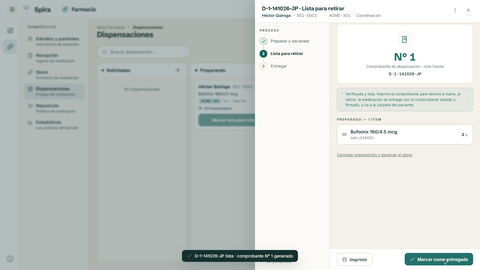
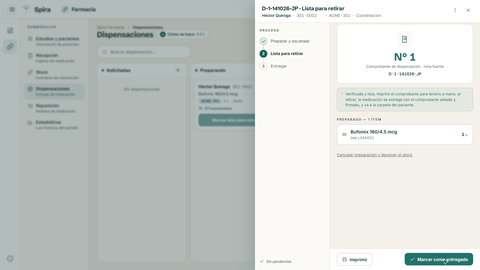
feat(tutoriales): T7 — `tutoriales:verificar` avisa cuando un tutorial quedó viejo
`npm run tutoriales:verificar` resetea el demo y recorre cada guion SIN voz ni video, y falla de dos maneras:
- un control que ya no existe: «Tutorial «dispensar», paso 3 («Tocá «Preparar»…»): … Locator: getByRole(…)»;
- la pantalla cambió: compara cada paso con su captura de referencia (`tutoriales/capturas/<id>/NN.png`) y deja
  la imagen de la diferencia. Tolerancia 0,5 %, medida: una corrida limpia difiere en 30-55 píxeles de 129.600,
  dos columnas cambiadas de lugar en ~2.350.

Probado con cambios temporales en la app (no commiteados): «Preparar» renombrado falla en el paso 3; Solicitadas y
Entregadas cambiadas de lugar fallan en los pasos 1 y 2. Corridas limpias: pasan.

- El reset del demo pasó a la fábrica: `grabar` y `verificar` lo corren antes de cada tutorial.
- Las capturas de referencia las deja `grabar.pw.ts` al terminar, por el camino de `verificar` (no durante la
  toma: el estilo que esconde los avisos se aplicaría a la página filmada).
- Los avisos flotantes (`data-toast`) se esconden en las capturas: aparecían según el milisegundo.
- El cierre de jornada suma el paso «¿cambió alguna pantalla con tutorial?».

Changed region(s): [[0.375, 0.9185, 0.625, 0.9778], [0.3125, 0.1185, 0.4062, 0.1481]]

diff --git a/tutoriales/lib/grabar.ts b/tutoriales/lib/grabar.ts
@@ -4,12 +4,12 @@ import { dirname, join, resolve } from 'node:path'
 import { fileURLToPath } from 'node:url'
 import type { Browser } from '@playwright/test'
 import { SCRIPT_CURSOR } from './cursor'
-import { verificarAppDelDemo } from './demo'
+import { resetearDemo, verificarAppDelDemo } from './demo'
 import { Escena } from './guion'
 import type { Guion } from './guion'
 import { armarCapitulos, armarTramos, esperaRestante } from './lineaDeTiempo'
 import type { PasoMedido } from './lineaDeTiempo'
-import { achicar, duracionDelVideo, extraerPoster, mezclar } from './mezcla'
+import { duracionDelVideo, extraerPoster, mezclar } from './mezcla'
 import { armarVtt } from './vtt'
 import { entrarComo } from './sesion'
 import { audioDe, elegirVoz } from './voz'
@@ -22,7 +22,7 @@ import { audioDe, elegirVoz } from './voz'
      3. mezcla  → ffmpeg pone cada audio en el instante en que arrancó su paso → mp4 H.264 + AAC
      4. salida  → tutoriales/salida/<id>/<versión>/ {video.mp4, subtitulos.vtt, poster.jpg}
                   + src/ayuda/tutoriales.meta.json (versión, duración, capítulos, transcripción)
-                  + tutoriales/capturas/<id>/NN.png (referencia chica de cada paso, para `tutoriales:verificar`)
+                  + tutoriales/capturas/<id>/NN.png (referencia chica de cada paso: la deja `grabar.pw.ts` después, por el camino de `verificar`)
 
    La versión es un hash corto del mp4: va en la ruta de Storage, así un video regrabado nunca choca con la
    caché del anterior. Un guion `prueba` (la prueba de la fábrica) sólo deja la carpeta de salida.
@@ -57,6 +57,7 @@ export async function grabarGuion(browser: Browser, g: Guion, opciones: { baseUR
   if (!g.prueba) {
     if (!opciones.baseURL) throw new Error(`«${g.id}» es un tutorial: se graba contra la app del demo (falta baseURL).`)
     await verificarAppDelDemo(opciones.baseURL)
+    resetearDemo()
   }
   const ctx = await browser.newContext({
     viewport: { width: ANCHO, height: ALTO },
@@ -71,16 +72,14 @@ export async function grabarGuion(browser: Browser, g: Guion, opciones: { baseUR
   if (g.preparar) await g.preparar(escena)
 
   const medidos: PasoMedido[] = []
-  const capturas: string[] = []
   for (const [i, paso] of g.pasos.entries()) {
     const inicioMs = Date.now() - t0
     const antes = Date.now()
     if (paso.hace) await paso.hace(escena)
-    // La captura de referencia también tarda: se cuenta como parte de la acción, para que la espera que
-    // sigue sea exactamente lo que le falta al audio (si no, la voz del paso se pisa con la del siguiente).
-    const captura = join(trabajo, `paso-${String(i + 1).padStart(2, '0')}.png`)
-    await page.screenshot({ path: captura })
-    capturas.push(captura)
+    // Una foto de cada paso en `.trabajo/` (para mirar qué pasó si la toma falla; la de referencia de
+    // `verificar` sale aparte). Tarda, y se cuenta como parte de la acción, para que la espera que sigue sea
+    // exactamente lo que le falta al audio (si no, la voz del paso se pisa con la del siguiente).
+    await page.screenshot({ path: join(trabajo, `paso-${String(i + 1).padStart(2, '0')}.png`) })
     const accionMs = Date.now() - antes
     const audioMs = audios[i]?.duracionMs ?? 0
     await page.waitForTimeout(esperaRestante(audioMs, accionMs))
@@ -109,11 +108,10 @@ export async function grabarGuion(browser: Browser, g: Guion, opciones: { baseUR
      reproductor (QA de T5: decía «0:15» y el video duraba 0:17). */
   const duracionMs = duracionDelVideo(join(carpeta, 'video.mp4'))
 
+  /* Las capturas de referencia de `tutoriales:verificar` NO salen de esta toma: las deja `grabar.pw.ts` al
+     terminar, pasando el guion por el mismo camino que después las compara (`lib/verificar.ts`). Sacarlas acá,
+     con el estilo que esconde los avisos, lo aplicaría a la página que se está filmando. */
   if (!g.prueba) {
-    const dirCapturas = join(FABRICA, 'capturas', g.id)
-    rmSync(dirCapturas, { recursive: true, force: true })
-    mkdirSync(dirCapturas, { recursive: true })
-    capturas.forEach((c, i) => achicar(c, 480, join(dirCapturas, `${String(i + 1).padStart(2, '0')}.png`)))
     escribirMeta(g.id, {
       version,
       duracionMs: Math.round(duracionMs),

diff --git a/tutoriales/lib/verificar.ts b/tutoriales/lib/verificar.ts
@@ -1,0 +1,74 @@
+import { mkdirSync, readFileSync, rmSync } from 'node:fs'
+import { dirname, join, resolve } from 'node:path'
+import { fileURLToPath } from 'node:url'
+import type { Browser } from '@playwright/test'
+import { SCRIPT_CURSOR } from './cursor'
+import { resetearDemo, verificarAppDelDemo } from './demo'
+import { ALTO, ANCHO } from './grabar'
+import { Escena } from './guion'
+import type { Guion } from './guion'
+import { capturaDeReferencia } from './captura'
+import { entrarComo } from './sesion'
+
+/* ============================================================================
+   ¿El tutorial sigue describiendo la app de hoy? (T7, docs/plan-tutoriales.md, «Desactualización»).
+
+   Corre el guion entero SIN voz ni video, contra el demo recién reseteado, y avisa de dos maneras:
+     1. El control ya no existe: el paso falla nombrando el tutorial, el número de paso y lo que dice la voz ahí.
+     2. La pantalla cambió: después de cada paso se saca la captura chica (480 px, como al grabar) y se compara
+        con la de la última grabación (`tutoriales/capturas/<id>/NN.png`). Una columna nueva o un copy distinto
+        marcan el video como viejo aunque los botones se sigan llamando igual.
+
+   La captura pasa por el MISMO camino que al grabar (cursor dibujado, captura de 1536×864, achicada con ffmpeg):
+   si no, la comparación vería diferencias del proceso y no de la pantalla.
+   ============================================================================ */
+
+const FABRICA = resolve(dirname(fileURLToPath(import.meta.url)), '..')
+
+/**
+ * Lo que sirve del error de Playwright: la primera línea (qué falló) más las que nombran el selector y lo que
+ * encontró. Sin los colores de terminal, que en un informe salen como basura. Con el solo encabezado, el aviso
+ * decía «toBeEnabled failed» y no QUÉ control había desaparecido (prueba de T7: «Preparar» renombrado).
+ */
+function resumirError(e: unknown): string {
+  const lineas = String((e as Error)?.message ?? e).replace(/\u001b\[[0-9;]*m/g, '').split(/\r?\n/).map((l) => l.trim())
+  const utiles = lineas.filter((l, i) => i === 0 || /^(Locator|Received|Expected|waiting for)/i.test(l))
+  return utiles.join(' · ')
+}
+
+/** Compara una captura con la de referencia (lo provee el spec: `expect.soft(...).toMatchSnapshot`). */
+export type Comparar = (captura: Buffer, nombre: [string, string], donde: string, ruta: string) => void
+
+export async function verificarGuion(browser: Browser, g: Guion, opciones: { baseURL?: string; comparar: Comparar }): Promise<void> {
+  if (!opciones.baseURL) throw new Error(`«${g.id}» se verifica contra la app del demo (falta baseURL).`)
+  await verificarAppDelDemo(opciones.baseURL)
+  resetearDemo()
+
+  const trabajo = join(FABRICA, '.trabajo', 'verificar', g.id)
+  rmSync(trabajo, { recursive: true, force: true })
+  mkdirSync(trabajo, { recursive: true })
+
+  const ctx = await browser.newContext({ viewport: { width: ANCHO, height: ALTO }, baseURL: opciones.baseURL })
+  await ctx.addInitScript(SCRIPT_CURSOR)
+  if (g.cuenta) await entrarComo(ctx, g.cuenta)
+  const page = await ctx.newPage()
+  const escena = new Escena(page)
+  try {
+    if (g.preparar) await g.preparar(escena)
+    for (const [i, paso] of g.pasos.entries()) {
+      const nn = String(i + 1).padStart(2, '0')
+      const donde = `Tutorial «${g.id}», paso ${i + 1} («${paso.dice.trim() || 'paso mudo'}»)`
+      try {
+        if (paso.hace) await paso.hace(escena)
+      } catch (e) {
+        throw new Error(`${donde}: ${resumirError(e)}`)
+      }
+      const grande = join(trabajo, `paso-${nn}.png`)
+      const chica = join(trabajo, `${nn}.png`)
+      await capturaDeReferencia(page, grande, chica)
+      opciones.comparar(readFileSync(chica), [g.id, `${nn}.png`], donde, chica)
+    }
+  } finally {
+    await ctx.close()
+  }
+}

diff --git a/tutoriales/lib/demo.ts b/tutoriales/lib/demo.ts
@@ -1,3 +1,6 @@
+import { execSync } from 'node:child_process'
+import { dirname, resolve } from 'node:path'
+import { fileURLToPath } from 'node:url'
 import { leerConfigDemo } from '../../scripts/demo/config.mjs'
 import { verificarBundle } from '../../scripts/demo/guardia.mjs'
 
@@ -17,4 +20,25 @@ export async function verificarAppDelDemo(baseURL: string): Promise<void> {
   if (!r?.ok) throw new Error(`La app en ${baseURL} no responde${r ? ` (HTTP ${r.status})` : ''}. ¿Está levantado \`npm run demo:app\`?`)
   const url = /https:\/\/[a-z0-9]+\.supabase\.co/.exec(await r.text())?.[0] ?? ''
   verificarBundle(url, cfg.ref)
+}
+
+const REPO = resolve(dirname(fileURLToPath(import.meta.url)), '..', '..')
+
+/**
+ * El demo vuelve a cero antes de cada tutorial: cada guion GASTA lo que la semilla le deja (el de dispensar termina
+ * con el pedido entregado), así que sin reset la segunda corrida no encuentra nada que preparar. Es el mismo
+ * `npm run demo:resetear` de siempre, con sus cerrojos. `TUTORIALES_SIN_RESET=1` lo saltea (para iterar un guion
+ * sobre un demo que ya está como hace falta).
+ *
+ * Ojo: el reset vuelve a aplicar las migraciones de ESTA copia del repo. Una migración nueva sin la anterior (un
+ * hueco) lo frena; ver «T6» en docs/plan-tutoriales.md.
+ */
+export function resetearDemo(): void {
+  if (process.env.TUTORIALES_SIN_RESET === '1') return
+  try {
+    execSync('npm run demo:resetear', { cwd: REPO, stdio: 'pipe', encoding: 'utf8' })
+  } catch (e) {
+    const salida = String((e as { stdout?: string; stderr?: string }).stderr || (e as { stdout?: string }).stdout || e)
+    throw new Error(`No se pudo resetear el demo: ${salida.split(/\r?\n/).filter((l) => l.includes('✗')).join(' · ') || salida.slice(-400)}`)
+  }
 }

diff --git a/tutoriales/verificar.pw.ts b/tutoriales/verificar.pw.ts
@@ -1,0 +1,34 @@
+import { readdirSync } from 'node:fs'
+import { dirname, join } from 'node:path'
+import { fileURLToPath, pathToFileURL } from 'node:url'
+import { expect, test } from '@playwright/test'
+import type { Guion } from './lib/guion'
+import { verificarGuion } from './lib/verificar'
+
+/* ============================================================================
+   `npm run tutoriales:verificar` — ¿algún tutorial quedó viejo? Un test por tutorial de `guiones/` (las pruebas
+   de la fábrica no: no tienen capturas de referencia). Lo corre el cierre de jornada cuando cambió una pantalla
+   que tiene tutorial (skill `cierre-jornada`). Si falla, ese tutorial se regraba (`npm run tutoriales:grabar --
+   -g <id>`); ninguna PR queda frenada por esto.
+
+   Las capturas se comparan con `expect.soft`: un paso distinto no corta la corrida, así el informe dice TODOS
+   los pasos que cambiaron, cada uno con su imagen de diferencias (en `.trabajo/playwright/`).
+   ============================================================================ */
+
+const dir = join(dirname(fileURLToPath(import.meta.url)), 'guiones')
+const guiones: Guion[] = []
+for (const f of readdirSync(dir).filter((x) => x.endsWith('.ts')).sort()) {
+  const g = (await import(pathToFileURL(join(dir, f)).href)).default as Guion
+  if (!g.prueba) guiones.push(g)
+}
+
+test.describe.configure({ mode: 'serial' })
+
+for (const g of guiones) {
+  test(g.id, async ({ browser, baseURL }) => {
+    await verificarGuion(browser, g, {
+      baseURL,
+      comparar: (captura, nombre, donde) => expect.soft(captura, `${donde}: la pantalla cambió desde la grabación`).toMatchSnapshot(nombre),
+    })
+  })
+}

diff --git a/tutoriales/playwright.config.ts b/tutoriales/playwright.config.ts
@@ -1,14 +1,22 @@
 import { defineConfig } from '@playwright/test'
 
 /* Config de la fábrica de tutoriales. Edge del sistema (`channel: 'msedge'`): en esta máquina WDAC bloquea
-   binarios sin firmar, y Edge corre (probado en T0). `testMatch` apunta SÓLO al spec único: con el patrón por
-   defecto, Playwright levantaría también los `lib/*.test.ts`, que son del vitest de la app. */
+   binarios sin firmar, y Edge corre (probado en T0). `testMatch` apunta SÓLO a los dos specs (`grabar` y
+   `verificar`, cada script elige el suyo): con el patrón por defecto, Playwright levantaría también los
+   `lib/*.test.ts`, que son del vitest de la app. */
 const PUERTO = 5291
 const APP = `http://localhost:${PUERTO}`
 
 export default defineConfig({
   testDir: '.',
-  testMatch: /grabar\.pw\.ts$/,
+  testMatch: /(grabar|verificar)\.pw\.ts$/,
+  /* Las capturas de referencia que deja la fábrica al grabar (`tutoriales/capturas/<id>/NN.png`): `verificar`
+     compara contra ésas. La tolerancia deja pasar lo que cambia solo —la fecha de «Hoy», el «hace 1m» de una
+     tarjeta— y no una columna nueva o un botón que se movió. Medido en T7 sobre la captura de 480×270 (129.600
+     píxeles): una corrida limpia difiere en 30-55 píxeles; con dos columnas del tablero cambiadas de lugar, en
+     ~2.350 (1,8 %). El 0,5 % (~650) queda diez veces arriba del ruido y casi cuatro debajo del cambio real. */
+  snapshotPathTemplate: '{testDir}/capturas/{arg}{ext}',
+  expect: { toMatchSnapshot: { maxDiffPixelRatio: 0.005, threshold: 0.2 } },
   timeout: 15 * 60_000,
   workers: 1,
   reporter: [['list']],

diff --git a/tutoriales/grabar.pw.ts b/tutoriales/grabar.pw.ts
@@ -1,9 +1,11 @@
 import { readdirSync } from 'node:fs'
 import { dirname, join } from 'node:path'
 import { fileURLToPath, pathToFileURL } from 'node:url'
+import { copyFileSync, mkdirSync, rmSync } from 'node:fs'
 import { test } from '@playwright/test'
 import type { Guion } from './lib/guion'
 import { grabarGuion } from './lib/grabar'
+import { verificarGuion } from './lib/verificar'
 
 /* ============================================================================
    El spec único de la fábrica: un test por guion de `guiones/`. Un `export default guion(...)` suelto no lo
@@ -26,5 +28,13 @@ for (const g of guiones) {
   test(g.id, async ({ browser, baseURL }) => {
     const r = await grabarGuion(browser, g, { baseURL })
     console.log(`✓ ${g.id} · ${(r.duracionMs / 1000).toFixed(1)} s · versión ${r.version}\n  ${r.carpeta}`)
+    if (g.prueba) return
+    /* Las capturas de referencia de `tutoriales:verificar`, recién grabado: se pasa el guion por el MISMO camino
+       que después las compara (otro reset del demo, sin voz ni video), y se guardan como las nuevas. */
+    const destino = join(dirname(fileURLToPath(import.meta.url)), 'capturas', g.id)
+    rmSync(destino, { recursive: true, force: true })
+    mkdirSync(destino, { recursive: true })
+    await verificarGuion(browser, g, { baseURL, comparar: (_c, [, archivo], __d, ruta) => copyFileSync(ruta, join(destino, archivo)) })
+    console.log(`  capturas de referencia en tutoriales/capturas/${g.id}/`)
   })
 }

diff --git a/tutoriales/lib/captura.ts b/tutoriales/lib/captura.ts
@@ -1,0 +1,21 @@
+import type { Page } from '@playwright/test'
+import { achicar } from './mezcla'
+
+/* ============================================================================
+   La captura de referencia de un paso: la que deja la fábrica al grabar y la que saca `tutoriales:verificar`
+   para comparar (T7, docs/plan-tutoriales.md, «Desactualización»). UN SOLO camino para las dos, así la
+   comparación ve cambios de la pantalla y no del proceso.
+
+   Sin los avisos flotantes (`Toast`, marcado con `data-toast`): aparecen y se van según el milisegundo en que se
+   saca la foto, así que en una corrida estaban y en otra no, y eso se leía como «la pantalla cambió» (medido en
+   T7: el «comprobante N° 1 generado» hacía fallar dos pasos de una corrida limpia). El VIDEO los sigue mostrando:
+   esto sólo toca la foto.
+   ============================================================================ */
+
+const SIN_AVISOS = '[data-toast] { visibility: hidden !important; }'
+
+/** Saca la captura del paso en `grande` (1536×864) y la deja achicada a 480 px en `chica`. */
+export async function capturaDeReferencia(page: Page, grande: string, chica: string): Promise<void> {
+  await page.screenshot({ path: grande, style: SIN_AVISOS })
+  achicar(grande, 480, chica)
+}

diff --git a/src/components/Toast.tsx b/src/components/Toast.tsx
@@ -66,6 +66,9 @@ export function Toast({ message, onDone, duration = 2400, tono, onClick, apilado
     <div
       role="status"
       aria-live="polite"
+      /* Lo usa la fábrica de tutoriales para sacar los avisos de las capturas de referencia: aparecen y se van
+         según el milisegundo, y `tutoriales:verificar` los tomaba por un cambio de pantalla (T7). */
+      data-toast=""
       onMouseEnter={() => setPaused(true)}
       onMouseLeave={() => setPaused(false)}
       onClick={onClick}

diff --git a/docs/plan-tutoriales.md b/docs/plan-tutoriales.md
@@ -698,10 +698,22 @@ Carriles: **T0** primero (30 min). Después **A**, **B** y **C** en paralelo (no
   - **Orden de despliegue:** la 0155 (otra sesión) → la **0156** en prod → subir la carpeta a Storage › `tutoriales/dispensar/e6584347/` → recién ahí se mergea esta PR. Con el meta publicado y sin el video subido, la píldora aparecería y el reproductor diría «Este video todavía no está disponible».
   - **Para mirar en el piloto (sale del QA de T5):** si el crudo de Playwright arranca a grabar DESPUÉS de `t0`, la voz queda corrida respecto de la imagen. En una corrida, el crudo duró 0,8 s menos que el guion medido desde `t0`. T4 lo dio por bueno mirando el cuadro del medio de cada subtítulo, que puede no notar un corrimiento así. Mirar el piloto con atención en los clics: si la voz llega tarde, medir el arranque del crudo y restarlo a los `inicioMs`.
   - El demo ya tiene el bucket `tutoriales` (público, creado por la API para el QA de T5) con un video de prueba en `dispensar/1f31fd51/`. La 0155 lo crea con `on conflict do nothing`, así que no choca.
-- [ ] **T7 (P2, humano: ~2 h / CC: ~15 min)** — proceso — `tutoriales:verificar` (selector + captura) + paso en `cierre-jornada`
+- [x] **T7 (P2, humano: ~2 h / CC: ~15 min)** — proceso — `tutoriales:verificar` (selector + captura) + paso en `cierre-jornada`
   - Surfaced by: D6, D10 (segunda opinión #8)
-  - Files: `package.json`, `tutoriales/capturas/`, `.claude/skills/cierre-jornada/SKILL.md`
-  - Verify: renombrar «Dispensar» en una rama → falla nombrando el paso; mover una columna → falla con el diff
+  - Files: `package.json`, `tutoriales/{package.json,playwright.config.ts,verificar.pw.ts,grabar.pw.ts}`, `tutoriales/lib/{verificar,captura,demo,grabar}.ts`, `tutoriales/capturas/dispensar/06.png`, `src/components/Toast.tsx`, `.claude/skills/cierre-jornada/SKILL.md`
+  - Verify: renombrar «Dispensar» en una rama → falla nombrando el paso; mover una columna → falla con el diff — **hecho el 2026-10-14** contra el demo, con cambios temporales en la app que no se commitearon:
+    - **Corrida limpia:** pasa, en ~1,1 min con el reset incluido (cuatro veces seguidas).
+    - **«Preparar» renombrado a «Tomar pedido»:** falla en «Tutorial «dispensar», paso 3 («Tocá «Preparar»…»): … Locator: getByRole('button', { name: 'Preparar' })».
+    - **«Solicitadas» y «Entregadas» cambiadas de lugar:** falla en los pasos 1 y 2, «la pantalla cambió desde la grabación», con la imagen de la diferencia en `.trabajo/playwright/`.
+    - **`grabar` deja las capturas al terminar:** probado regrabando «dispensar» (3,3 min con los dos resets). Escribió las 8 capturas. El video de prueba (`7c6df05f`) se descartó: sigue publicado el `e6584347` que está en prod.
+  - **Decisiones al implementar:**
+    - **El reset del demo pasó a la fábrica** (`resetearDemo`, en `lib/demo.ts`): `grabar` y `verificar` lo corren antes de cada tutorial, así ya no hay que resetear a mano. `TUTORIALES_SIN_RESET=1` lo saltea para iterar.
+    - **Las capturas de referencia ya no salen de la toma del video:** las deja `grabar.pw.ts` al terminar, pasando el guion por el mismo camino que después las compara (`lib/verificar.ts`). Sacarlas durante la toma con el estilo que esconde los avisos lo aplicaría a la página filmada.
+    - **Los avisos flotantes se esconden en las capturas** (`data-toast` en `Toast`, `lib/captura.ts`). Aparecen y se van según el milisegundo, y en una corrida limpia hacían fallar dos pasos. El video los sigue mostrando.
+    - **Tolerancia 0,5 %, medida:** una corrida limpia difiere en 30-55 píxeles de 129.600; las dos columnas cambiadas, en ~2.350. Con el 1,5 % del primer intento, el cambio real pasaba apenas.
+    - **Los mensajes nombran el selector** (`resumirError`): con sólo la primera línea de Playwright decían «toBeEnabled failed» y no qué control faltaba.
+    - **Las capturas de «dispensar» se refrescaron con `--update-snapshots`, sin regrabar el video** (el de prod no cambia). Sólo cambió la del paso 6, que tenía un aviso.
+    - **Ya conocido:** las capturas muestran la píldora «Cómo se hace» y el video no, porque se grabó antes de publicarlo. Queda dentro de la tolerancia, y se iguala en la próxima regrabación.
 - [ ] **T8 (P2, etapa 2)** — contenido — Guiones de los flujos elegidos por el Director + sus píldoras «Cómo se hace»
 
 ## Approved Mockups

diff --git a/.claude/skills/cierre-jornada/SKILL.md b/.claude/skills/cierre-jornada/SKILL.md
@@ -29,6 +29,7 @@ modo completo sin re-preguntar los pasos.
 | 2. Handoff | `docs/bitacora/handoff-YYYY-MM-DD.md`. Calcar el último: primera línea con links al handoff anterior y a la narrativa del día; secciones **Dónde estás / Lo hecho esta jornada / Decisiones tomadas (no re-discutir) / PRÓXIMO PASO (próxima sesión) / Cómo verificar al retomar**. |
 | 3. Memoria | Vive en `~/.claude/projects/C--Users-usuario-FS-Desktop-Spira-Spira-App/memory/` (ojo: hay memorias de **otros** proyectos Spira —`Spira-Pharma`, `Spira-Identidad-Visual`— que NO son esta). Actualizar `spira-estado-proyecto.md` y el índice `MEMORY.md`. **`spira-estado-proyecto.md` es un puntero, no una copia del estado**: lo único que se toca en cada cierre es la línea que dice cuál es el handoff más reciente. Si de la jornada salió algo durable que el repo NO registra (una preferencia del Director, un gotcha reusable), va como archivo propio + su línea en `MEMORY.md`. **Read SIEMPRE antes de Edit** — editar memoria solo grepeada es la causa #1 de errores acá. |
 | 4. Commit | Por ruta. Push solo si el Director lo pide o ya era la operativa del día. Al final, decí explícito qué quedó local y qué en origin. |
+| 5. Tutoriales | **¿Cambió alguna pantalla que tiene tutorial?** Las pantallas están en `src/ayuda/tutoriales.ts` (campo `vista`, p. ej. `pharma/dispensaciones`). Si la jornada tocó alguna —o algo que se ve en ella—, o hay duda: `npm run tutoriales:verificar` (resetea el demo y recorre cada guion sin voz ni video, ~1 min por tutorial; necesita `%USERPROFILE%\.spira\demo.env`). Si falla, dice el tutorial, el paso y si fue un control que ya no existe o la pantalla que cambió (con la imagen de la diferencia en `tutoriales/.trabajo/playwright/`). **No frena el cierre**: anotalo en la bitácora y en Pendientes, y ese tutorial se regraba (`npm run tutoriales:grabar -- -g <id>`). Un video regrabado tiene versión nueva: se sube su carpeta a Storage › `tutoriales` en prod ANTES de mergear el `tutoriales.meta.json` que la publica (docs/plan-tutoriales.md, T6 y T7). |
 
 ## Modo release (además del cierre)
 
